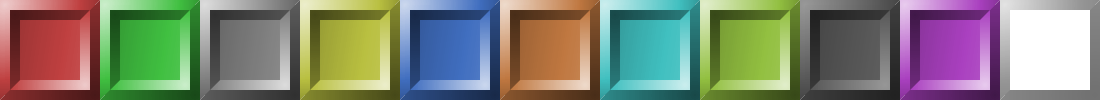
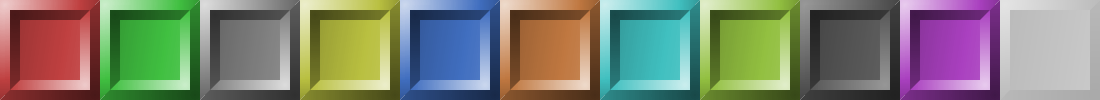
added ghost/lockdelay piece

Changed region(s): [[0.8964, 0.0, 1.0, 1.0]]

diff --git a/ltris2/src/vbowl.cpp b/ltris2/src/vbowl.cpp
@@ -75,25 +75,54 @@ void VBowl::render() {
 			theme.vbaTiles[pid].copy(x,y);
 		}
 
-	/* current piece: block.id is the index in block_masks and
-	 * block_masks[].blockid is the picture id */
-	if (bowl->are == 0) {
-		pid = block_masks[bowl->block.id].blockid;
+	/* (ghost) piece: block_masks[block.id].blockid is the picture id */
+	if (!bowl->hide_block && bowl->are == 0) {
+		/* get starting screen position for piece. y is a bit of an issue
+		 * for smooth drop as we need to check here again if we use y or
+		 * cur_y as sy from libgame is 480p and thus too coarse. */
 		x = rBowl.x + bowl->block.x*tileSize;
 		if (bowl->ldelay_cur > 0 || config.block_by_block ||
 				!bowl_piece_can_drop(bowl))
 			y = rBowl.y + bowl->block.y*tileSize;
 		else
 			y = rBowl.y + bowl->block.cur_y / bowl->block_size * tileSize;
+		int xstart = x;
+
+		/* get starting y for ghost piece, x is same. to interfere as little
+		 * with the original code we just translate the 480p position back */
+		int gy = rBowl.y + ((bowl->help_sy - bowl->sy) / bowl->block_size)*tileSize;
+
 		for (int j = 0; j < 4; j++) {
 			for (int i = 0; i < 4; i++) {
-				if (block_masks[bowl->block.id].mask[bowl->block.rot_id][i][j])
+				if (block_masks[bowl->block.id].mask[bowl->block.rot_id][i][j]) {
+					pid = block_masks[bowl->block.id].blockid;
+
+					/* ghost piece */
+					if (config.modern) {
+						theme.vbaTiles[pid].setAlpha(96);
+						theme.vbaTiles[pid].copy(x,gy);
+						theme.vbaTiles[pid].setAlpha(SDL_ALPHA_OPAQUE);
+					}
+
+					/* actual piece */
 					theme.vbaTiles[pid].copy(x,y);
 
+					/* use special tile id layered to indicate lock
+					 * delay unless soft drop was used which will
+					 * insert the block on the next cycle */
+					if (bowl->ldelay_cur > 0 && !bowl->sdrop_pressed) {
+						pid = LOCKDELAYTILEID;
+						theme.vbaTiles[pid].setAlpha(128);
+						theme.vbaTiles[pid].copy(x,y);
+						theme.vbaTiles[pid].setAlpha(SDL_ALPHA_OPAQUE);
+					}
+
+				}
 				x += tileSize;
 			}
-			x = rBowl.x + bowl->block.x*tileSize;
+			x = xstart;
 			y += tileSize;
+			gy += tileSize;
 		}
 	}
 

diff --git a/ltris2/src/theme.h b/ltris2/src/theme.h
@@ -22,8 +22,9 @@ class Menu;
 
 enum {
 	MAXWALLPAPERS = 10,
-	MAXNUMTILES = 10,
-	NUMPIECES = 7
+	NUMTILES = 11,
+	NUMPIECES = 7,
+	LOCKDELAYTILEID = 10
 };
 
 class Theme {
@@ -50,7 +51,7 @@ class Theme {
 	 * class does not work. for some reason textures are empty and
 	 * I cannot figure out why. instructions are exactly the same...
 	 * so we just do it this way. */
-	Texture vbaTiles[MAXNUMTILES];
+	Texture vbaTiles[NUMTILES];
 	Texture vbaPreviews[NUMPIECES];
 	Font vbaFontNormal, vbaFontBold, vbaFontSmall;
 

diff --git a/ltris2/src/theme.cpp b/ltris2/src/theme.cpp
@@ -73,8 +73,10 @@ void Theme::load(string name, Renderer &r)
 	tiles.load(testRc(path,"blocks.png"));
 	tileSize = tiles.getHeight();
 	numTiles = tiles.getWidth() / tileSize;
-	if (numTiles > MAXNUMTILES)
-		numTiles = MAXNUMTILES;
+	if (numTiles > NUMTILES)
+		numTiles = NUMTILES;
+	if (numTiles < NUMTILES)
+		_loginfo("Theme provides only %d tiles instead of %d...\n",numTiles,NUMTILES);
 }
 
 /** Load fonts for bowl assets. */

diff --git a/ltris2/src/vgame.cpp b/ltris2/src/vgame.cpp
@@ -186,7 +186,7 @@ void VGame::init(bool demo) {
 	 * bowl does not work. textures get created but are not displayed
 	 * and I can't figure out why... */
 	/* create tiles for pieces */
-	for (int i = 0; i < MAXNUMTILES; i++) {
+	for (int i = 0; i < NUMTILES; i++) {
 		theme.vbaTiles[i].create(tsize,tsize);
 		renderer.setTarget(theme.vbaTiles[i]);
 		theme.tiles.copy(i*theme.tileSize,0,theme.tileSize,theme.tileSize,
